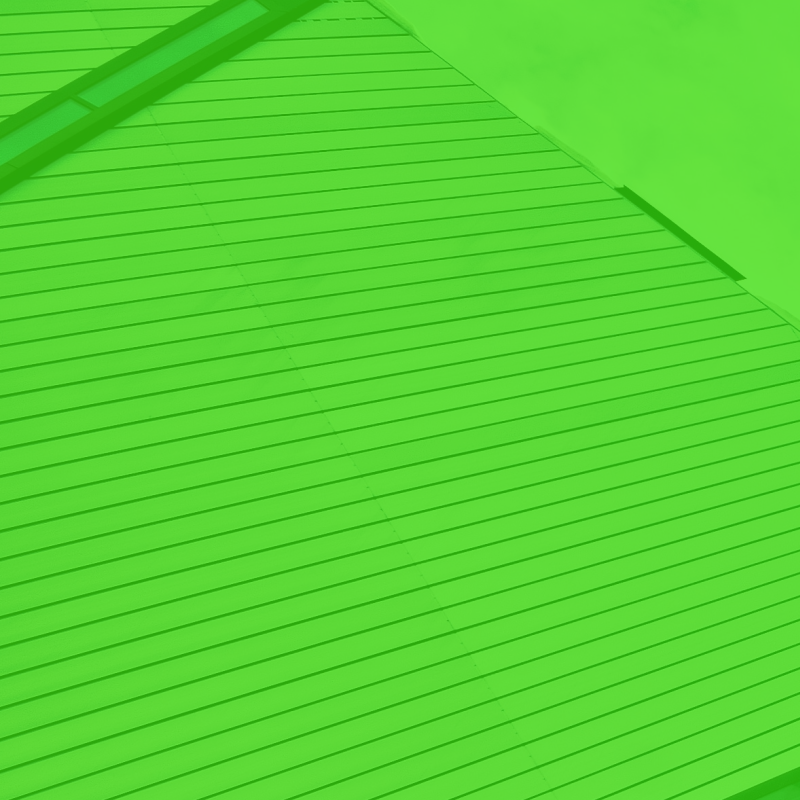
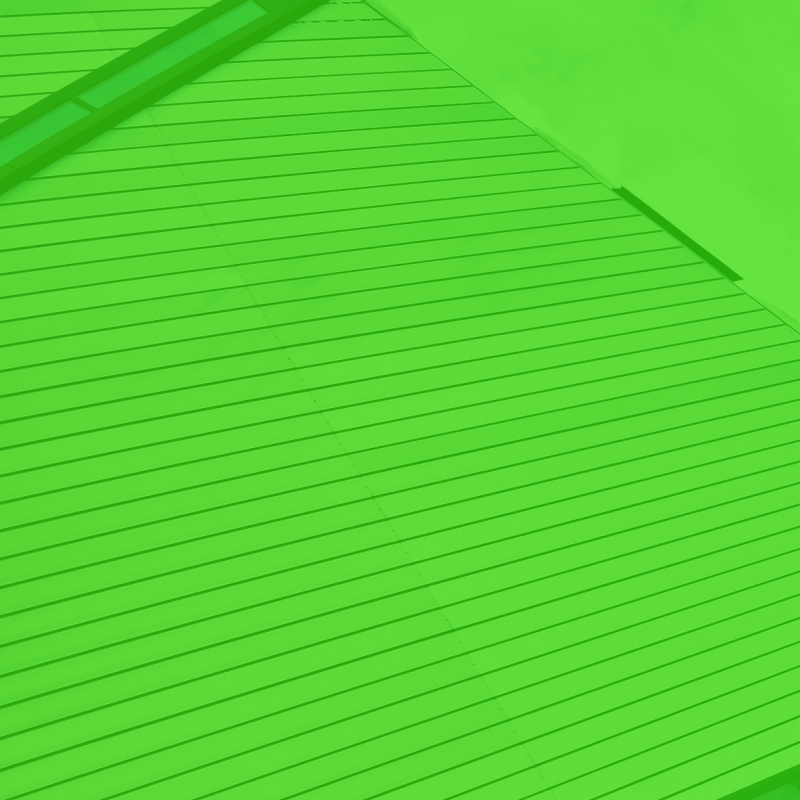
Update header for chapter 0

diff --git a/book/chapter00.md b/book/chapter00.md
@@ -1,6 +1,6 @@
 <p align="center">
-    <img src="../img/ch00/header.part1.png" width="28.3%" />
-    <img src="../img/ch00/header.part2.png" width="71%" />
+    <img src="../img/ch00/header.part1.png" width="28%" />
+    <img src="../img/ch00/header.part2.png" width="70.5%" />
 </p>
 
 <p align="center">
